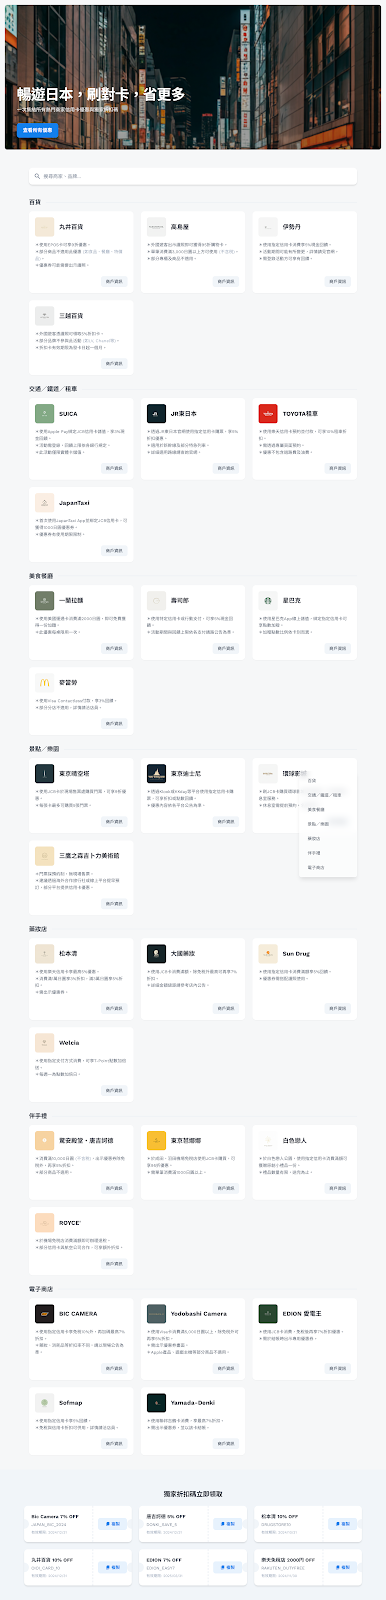
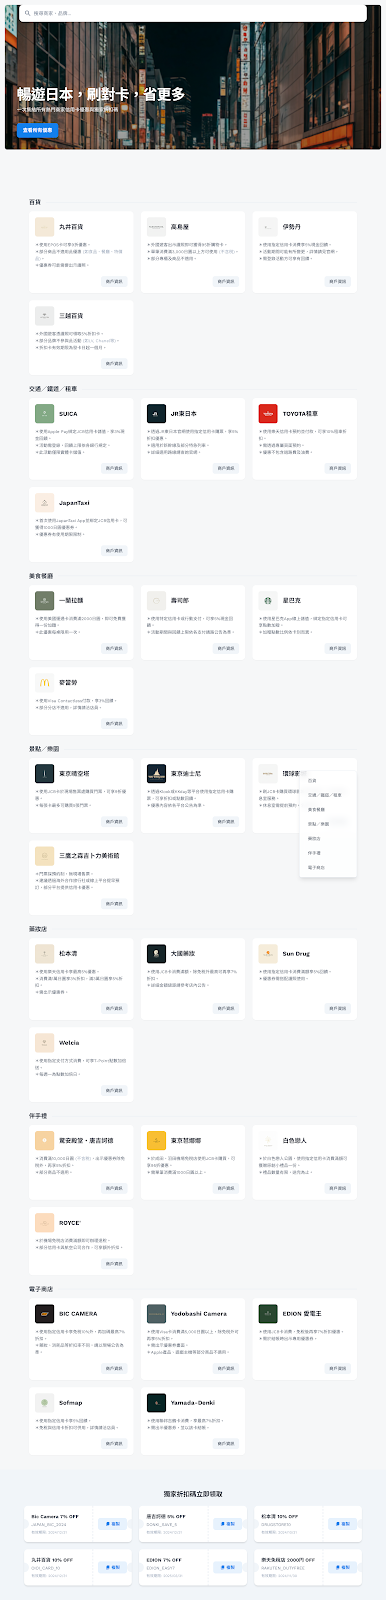
Add files via upload

Changed region(s): [[0.0311, 0.0, 0.9637, 0.0312]]

diff --git a/code.html b/code.html
@@ -46,7 +46,7 @@
       }
     </script>
 </head>
-<body class="font-display bg-background-light dark:bg-background-dark">
+<body class="font-display bg-background-light dark:bg-background-dark pb-16 xl:pb-0">
 <div class="relative w-full flex flex-col group/design-root overflow-x-hidden">
 <div class="w-full">
 <div class="@container">
@@ -64,19 +64,22 @@
 </div>
 </div>
 <div class="max-w-6xl mx-auto w-full flex flex-col items-start px-4 py-8">
-<div class="w-full px-4 py-3 sticky top-4 z-20">
+<div class="w-full h-20"></div>
+<div class="fixed top-4 left-0 right-0 z-50 px-4">
+<div class="max-w-6xl mx-auto w-full">
 <label class="flex flex-col min-w-40 h-14 w-full">
-<div class="flex w-full flex-1 items-stretch rounded-xl h-full shadow-md">
-<div class="text-slate-500 dark:text-slate-400 flex bg-white dark:bg-slate-800 items-center justify-center pl-4 rounded-l-xl border-r-0">
+<div class="flex w-full flex-1 items-stretch rounded-xl h-full shadow-lg bg-white dark:bg-slate-800">
+<div class="text-slate-500 dark:text-slate-400 flex items-center justify-center pl-4 rounded-l-xl border-r-0">
 <span class="material-symbols-outlined">search</span>
 </div>
-<input class="form-input flex w-full min-w-0 flex-1 resize-none overflow-hidden rounded-xl text-slate-800 dark:text-slate-200 focus:outline-0 focus:ring-2 focus:ring-primary/50 border-none bg-white dark:bg-slate-800 h-full placeholder:text-slate-500 dark:placeholder:text-slate-400 px-4 rounded-l-none border-l-0 pl-2 text-base font-normal leading-normal" id="searchInput" placeholder="搜尋商家、品牌..." value=""/>
+<input class="form-input flex w-full min-w-0 flex-1 resize-none overflow-hidden rounded-xl text-slate-800 dark:text-slate-200 focus:outline-0 focus:ring-2 focus:ring-primary/50 border-none bg-transparent h-full placeholder:text-slate-500 dark:placeholder:text-slate-400 px-4 rounded-l-none border-l-0 pl-2 text-base font-normal leading-normal" id="searchInput" placeholder="搜尋商家、品牌..." value=""/>
 </div>
 </label>
 </div>
+</div>
 <div class="w-full flex relative">
-<div class="fixed top-1/2 -translate-y-1/2 right-4 h-auto hidden xl:block z-30">
-<div class="flex flex-col items-end gap-2 p-3 w-48 bg-white/60 dark:bg-slate-800/60 backdrop-blur-md rounded-lg shadow-lg">
+<div class="fixed top-1/2 -translate-y-1/2 right-4 h-auto hidden xl:block z-40">
+<div class="flex flex-col items-end gap-2 p-3 w-48 bg-white/80 dark:bg-slate-800/80 backdrop-blur-md rounded-lg shadow-lg border border-slate-200 dark:border-slate-700">
 <a class="flex h-10 w-full shrink-0 items-center justify-start gap-x-2 rounded-lg px-4 text-slate-700 dark:text-slate-300 hover:bg-primary/10 dark:hover:bg-primary/20 hover:text-primary dark:hover:text-primary transition-colors focus:bg-primary/10 focus:text-primary focus:font-bold dark:focus:bg-primary/20 dark:focus:text-primary dark:focus:font-bold" href="#category-department">
 <p class="text-sm leading-normal">百貨</p>
 </a>
@@ -606,15 +609,15 @@
 </div>
 </div>
 </div>
-<div class="xl:hidden fixed bottom-0 left-0 right-0 z-30 bg-white/80 dark:bg-slate-900/80 backdrop-blur-sm border-t border-slate-200 dark:border-slate-800 shadow-t-lg">
-<div class="flex overflow-x-auto no-scrollbar p-2">
-<a class="flex-shrink-0 flex items-center justify-center h-10 px-4 rounded-lg text-slate-700 dark:text-slate-300 text-sm font-medium hover:bg-primary/10 dark:hover:bg-primary/20 hover:text-primary dark:hover:text-primary transition-colors focus:bg-primary/10 focus:text-primary dark:focus:bg-primary/20 dark:focus:text-primary" href="#category-department">百貨</a>
-<a class="flex-shrink-0 flex items-center justify-center h-10 px-4 rounded-lg text-slate-700 dark:text-slate-300 text-sm font-medium hover:bg-primary/10 dark:hover:bg-primary/20 hover:text-primary dark:hover:text-primary transition-colors focus:bg-primary/10 focus:text-primary dark:focus:bg-primary/20 dark:focus:text-primary whitespace-nowrap" href="#category-transport">交通／鐵道／租車</a>
-<a class="flex-shrink-0 flex items-center justify-center h-10 px-4 rounded-lg text-slate-700 dark:text-slate-300 text-sm font-medium hover:bg-primary/10 dark:hover:bg-primary/20 hover:text-primary dark:hover:text-primary transition-colors focus:bg-primary/10 focus:text-primary dark:focus:bg-primary/20 dark:focus:text-primary" href="#category-food">美食餐廳</a>
-<a class="flex-shrink-0 flex items-center justify-center h-10 px-4 rounded-lg text-slate-700 dark:text-slate-300 text-sm font-medium hover:bg-primary/10 dark:hover:bg-primary/20 hover:text-primary dark:hover:text-primary transition-colors focus:bg-primary/10 focus:text-primary dark:focus:bg-primary/20 dark:focus:text-primary" href="#category-attraction">景點／樂園</a>
-<a class="flex-shrink-0 flex items-center justify-center h-10 px-4 rounded-lg text-slate-700 dark:text-slate-300 text-sm font-medium hover:bg-primary/10 dark:hover:bg-primary/20 hover:text-primary dark:hover:text-primary transition-colors focus:bg-primary/10 focus:text-primary dark:focus:bg-primary/20 dark:focus:text-primary" href="#category-drugstore">藥妝店</a>
-<a class="flex-shrink-0 flex items-center justify-center h-10 px-4 rounded-lg text-slate-700 dark:text-slate-300 text-sm font-medium hover:bg-primary/10 dark:hover:bg-primary/20 hover:text-primary dark:hover:text-primary transition-colors focus:bg-primary/10 focus:text-primary dark:focus:bg-primary/20 dark:focus:text-primary" href="#category-souvenir">伴手禮</a>
-<a class="flex-shrink-0 flex items-center justify-center h-10 px-4 rounded-lg text-slate-700 dark:text-slate-300 text-sm font-medium hover:bg-primary/10 dark:hover:bg-primary/20 hover:text-primary dark:hover:text-primary transition-colors focus:bg-primary/10 focus:text-primary dark:focus:bg-primary/20 dark:focus:text-primary" href="#category-electronics">電子商店</a>
+<div class="xl:hidden fixed bottom-0 left-0 right-0 z-50 bg-white/80 dark:bg-slate-900/80 backdrop-blur-sm border-t border-slate-200 dark:border-slate-800 shadow-[0_-4px_6px_-1px_rgba(0,0,0,0.1)]">
+<div class="flex overflow-x-auto no-scrollbar p-2 gap-2">
+<a class="flex-shrink-0 flex items-center justify-center h-10 px-4 rounded-lg bg-white dark:bg-slate-800 border border-slate-200 dark:border-slate-700 text-slate-700 dark:text-slate-300 text-sm font-medium hover:bg-primary/10 dark:hover:bg-primary/20 hover:text-primary dark:hover:text-primary transition-colors focus:bg-primary/10 focus:text-primary dark:focus:bg-primary/20 dark:focus:text-primary whitespace-nowrap" href="#category-department">百貨</a>
+<a class="flex-shrink-0 flex items-center justify-center h-10 px-4 rounded-lg bg-white dark:bg-slate-800 border border-slate-200 dark:border-slate-700 text-slate-700 dark:text-slate-300 text-sm font-medium hover:bg-primary/10 dark:hover:bg-primary/20 hover:text-primary dark:hover:text-primary transition-colors focus:bg-primary/10 focus:text-primary dark:focus:bg-primary/20 dark:focus:text-primary whitespace-nowrap" href="#category-transport">交通／鐵道／租車</a>
+<a class="flex-shrink-0 flex items-center justify-center h-10 px-4 rounded-lg bg-white dark:bg-slate-800 border border-slate-200 dark:border-slate-700 text-slate-700 dark:text-slate-300 text-sm font-medium hover:bg-primary/10 dark:hover:bg-primary/20 hover:text-primary dark:hover:text-primary transition-colors focus:bg-primary/10 focus:text-primary dark:focus:bg-primary/20 dark:focus:text-primary whitespace-nowrap" href="#category-food">美食餐廳</a>
+<a class="flex-shrink-0 flex items-center justify-center h-10 px-4 rounded-lg bg-white dark:bg-slate-800 border border-slate-200 dark:border-slate-700 text-slate-700 dark:text-slate-300 text-sm font-medium hover:bg-primary/10 dark:hover:bg-primary/20 hover:text-primary dark:hover:text-primary transition-colors focus:bg-primary/10 focus:text-primary dark:focus:bg-primary/20 dark:focus:text-primary whitespace-nowrap" href="#category-attraction">景點／樂園</a>
+<a class="flex-shrink-0 flex items-center justify-center h-10 px-4 rounded-lg bg-white dark:bg-slate-800 border border-slate-200 dark:border-slate-700 text-slate-700 dark:text-slate-300 text-sm font-medium hover:bg-primary/10 dark:hover:bg-primary/20 hover:text-primary dark:hover:text-primary transition-colors focus:bg-primary/10 focus:text-primary dark:focus:bg-primary/20 dark:focus:text-primary whitespace-nowrap" href="#category-drugstore">藥妝店</a>
+<a class="flex-shrink-0 flex items-center justify-center h-10 px-4 rounded-lg bg-white dark:bg-slate-800 border border-slate-200 dark:border-slate-700 text-slate-700 dark:text-slate-300 text-sm font-medium hover:bg-primary/10 dark:hover:bg-primary/20 hover:text-primary dark:hover:text-primary transition-colors focus:bg-primary/10 focus:text-primary dark:focus:bg-primary/20 dark:focus:text-primary whitespace-nowrap" href="#category-souvenir">伴手禮</a>
+<a class="flex-shrink-0 flex items-center justify-center h-10 px-4 rounded-lg bg-white dark:bg-slate-800 border border-slate-200 dark:border-slate-700 text-slate-700 dark:text-slate-300 text-sm font-medium hover:bg-primary/10 dark:hover:bg-primary/20 hover:text-primary dark:hover:text-primary transition-colors focus:bg-primary/10 focus:text-primary dark:focus:bg-primary/20 dark:focus:text-primary whitespace-nowrap" href="#category-electronics">電子商店</a>
 </div>
 </div>
 <script>
@@ -643,4 +646,5 @@
         });
     });
 </script>
+
 </body></html>
